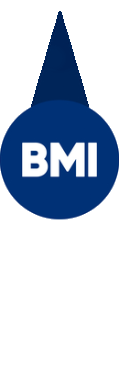
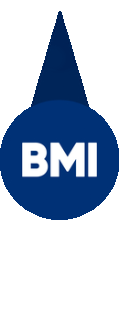
dodane bmi v10

Changed region(s): [[0.0, 0.0625, 1.0, 0.6875], [0.479, 0.0312, 0.5294, 0.0625]]

diff --git a/bmi/templates/bmi/index.html b/bmi/templates/bmi/index.html
@@ -19,7 +19,7 @@
     <button onclick="oblicz()">Oblicz</button>
     <div id="odpowiedz"></div>
     <div class="container">
-        <img src="{% static 'bmi/images/skala_bmi.png' %}">
+        <img src="{% static 'bmi/images/skala_bmi.png' %}" id="img1">
         <img src="{% static 'bmi/images/strzalka.png' %}" class="image2" id="image2">
     </div>
 

diff --git a/bmi/static/bmi/style.css b/bmi/static/bmi/style.css
@@ -2,11 +2,15 @@
     position: relative;
 }
 
+.img1{
+    scale:70%;
+}
+
 .image2 {
     position: absolute;
     left: 128px;
     top: 190px;
-    scale: 1.52;
+    scale: 1.064;
     transition: 200ms;
 }
 
